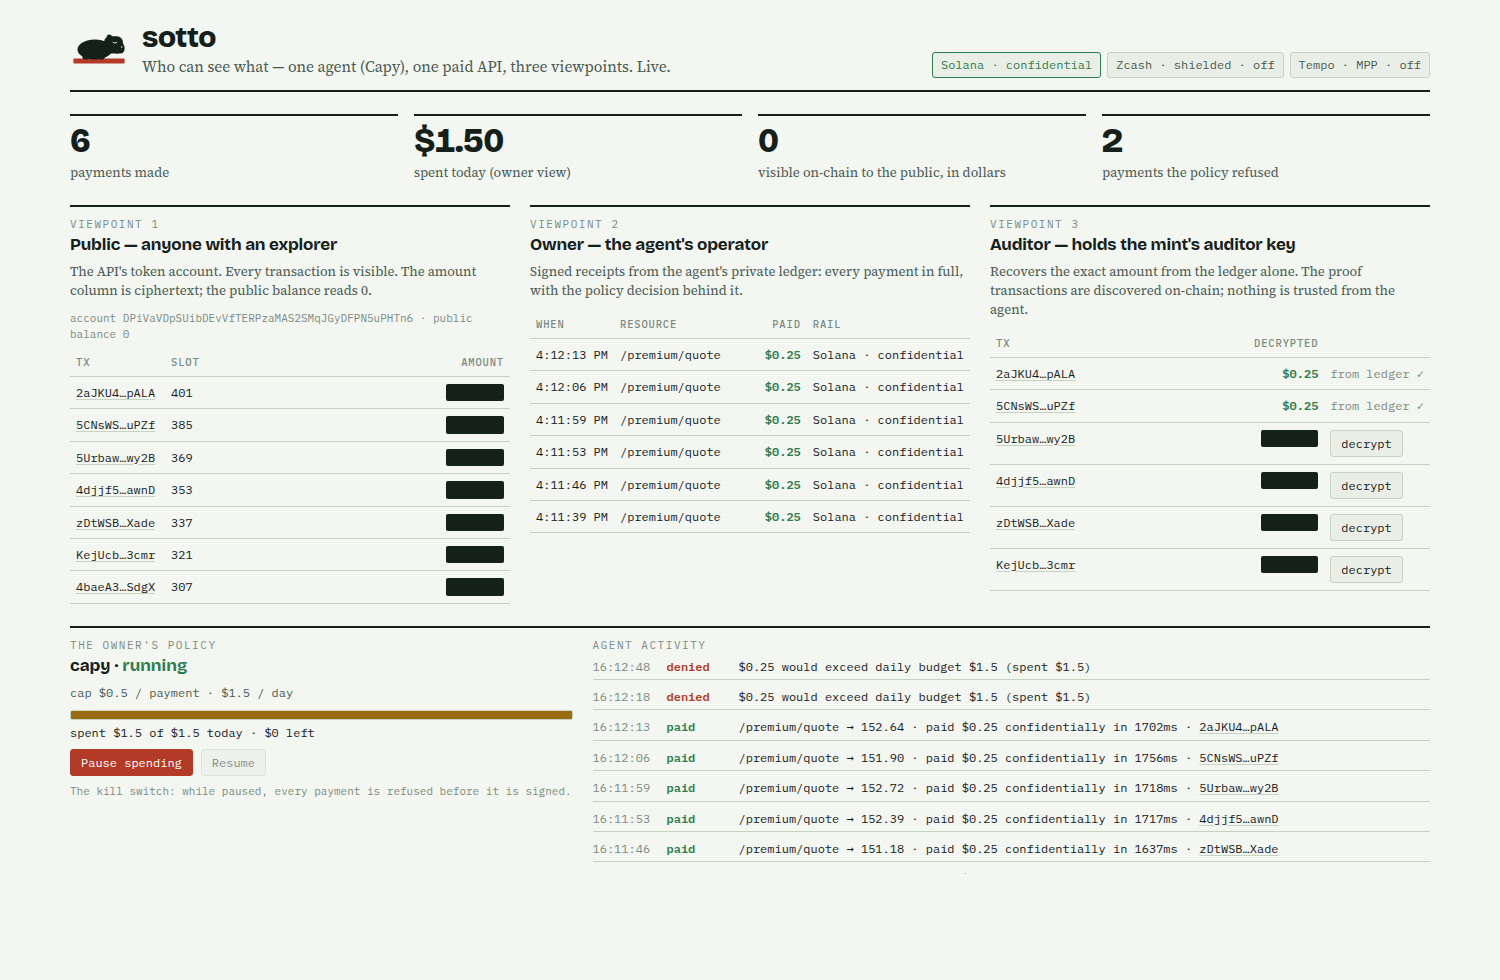
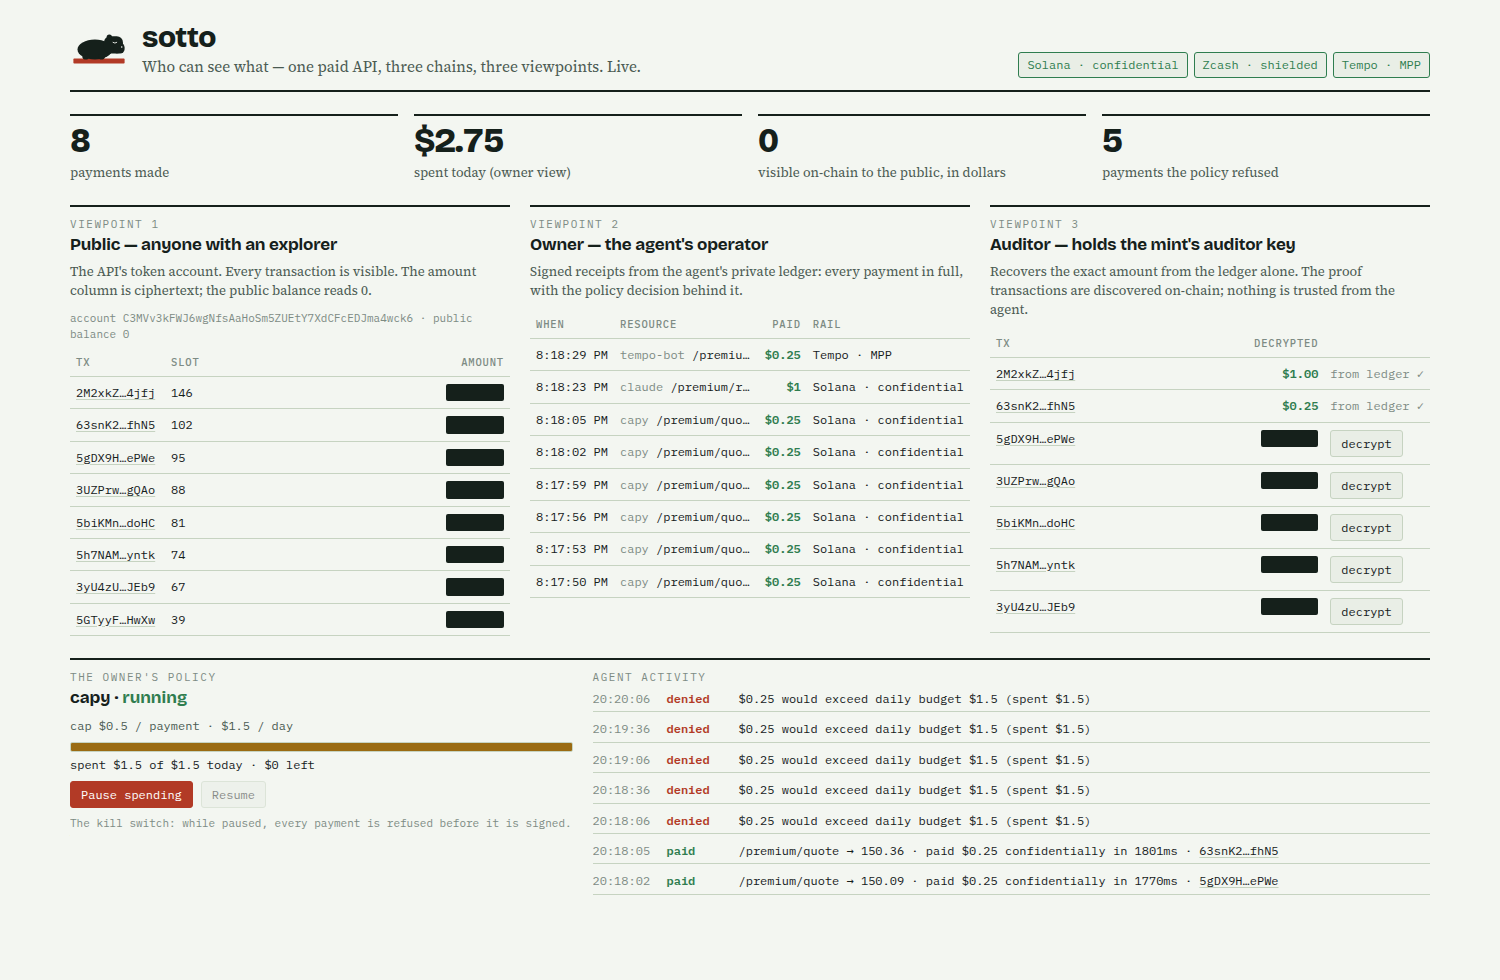
README: screenshots back, repository map and run instructions at the bottom
Slide 2 follows the solution; a fresh dashboard screenshot (all three rails on, Capy, Claude Code and a Tempo
agent in one owner ledger, two auditor decrypts) closes 'How it works'. The repository map and the run
instructions, demo and SDK usage, come last. The sponsor table says 'Verified on'.

The dashboard subtitle no longer says 'one agent': the owner view merges every agent's ledger. The submission
draft keeps the answers pasted into the Colosseum form.

Claude-Session: https://claude.ai/code/session_01N7Vfg7xokAihye472Cfcwa

diff --git a/packages/demo/public/index.html b/packages/demo/public/index.html
@@ -63,7 +63,7 @@
 <body>
 <div class="wrap">
   <header>
-    <div style="display:flex;align-items:center;gap:14px"><span style="color:var(--ink)"><svg class="capy" viewBox="0 0 140 92" width="58" height="38" aria-hidden="true"><rect x="8" y="74" width="124" height="12" rx="2" fill="var(--accent)"/><ellipse cx="60" cy="52" rx="42" ry="24" fill="currentColor"/><rect x="82" y="20" width="46" height="42" rx="15" fill="currentColor"/><rect x="104" y="36" width="28" height="26" rx="11" fill="currentColor"/><circle cx="95" cy="22" r="6.5" fill="currentColor"/><path d="M104 35 q4.5 3.5 9 0" stroke="var(--paper)" stroke-width="2.2" fill="none" stroke-linecap="round"/><circle cx="125" cy="46" r="1.9" fill="var(--paper)"/><rect x="30" y="64" width="16" height="12" rx="5" fill="currentColor"/><rect x="68" y="64" width="16" height="12" rx="5" fill="currentColor"/></svg></span><div><div class="brand">sotto</div><div class="tag">Who can see what — one agent (Capy), one paid API, three viewpoints. Live.</div></div></div>
+    <div style="display:flex;align-items:center;gap:14px"><span style="color:var(--ink)"><svg class="capy" viewBox="0 0 140 92" width="58" height="38" aria-hidden="true"><rect x="8" y="74" width="124" height="12" rx="2" fill="var(--accent)"/><ellipse cx="60" cy="52" rx="42" ry="24" fill="currentColor"/><rect x="82" y="20" width="46" height="42" rx="15" fill="currentColor"/><rect x="104" y="36" width="28" height="26" rx="11" fill="currentColor"/><circle cx="95" cy="22" r="6.5" fill="currentColor"/><path d="M104 35 q4.5 3.5 9 0" stroke="var(--paper)" stroke-width="2.2" fill="none" stroke-linecap="round"/><circle cx="125" cy="46" r="1.9" fill="var(--paper)"/><rect x="30" y="64" width="16" height="12" rx="5" fill="currentColor"/><rect x="68" y="64" width="16" height="12" rx="5" fill="currentColor"/></svg></span><div><div class="brand">sotto</div><div class="tag">Who can see what — one paid API, three chains, three viewpoints. Live.</div></div></div>
     <div class="chips" id="rails"><span class="chip">connecting…</span></div>
   </header>
 

diff --git a/README.md b/README.md
@@ -28,6 +28,8 @@ nothing bounds what an agent spends, so one bug or one bad prompt can drain the 
 Before anything is signed, the owner's policy decides: a per-payment cap, hourly, daily and monthly budgets, allowed
 and blocked hosts, an expiry date, and a kill switch. Confidential, not anonymous.
 
+<p align="center"><img src="docs/img/slide-2.png" width="880" alt="Slide 2: sotto, paid quietly, proven loudly: the public, the owner and an auditor see the same payment differently"></p>
+
 ## How it works
 
 1. **Ask.** An agent requests a paid resource through the SDK, the MCP server, or the `sotto` CLI.
@@ -50,9 +52,13 @@ The pieces: `packages/sdk` holds the policy engine, receipts, rails, x402 scheme
 that teaches an agent to use it. `services/zcash-settler` is a Rust service that holds the Zcash wallet. `packages/demo`
 is a paid API, the owner and auditor dashboard, and Capy, the demo agent; `demo.sh` starts all of it.
 
+<p align="center"><img src="docs/img/dashboard.png" width="920" alt="The demo dashboard: Capy, Claude Code and a Tempo agent paying one API, as the public, the owner and an auditor see it"></p>
+<p align="center"><em>The demo dashboard, live: Capy, Claude Code and a Tempo agent paying one API. The public sees redacted
+amounts, the owner sees every receipt, the auditor decrypts from the chain, and the policy refuses Capy once its budget is spent.</em></p>
+
 ## Sponsors at a glance
 
-| Sponsor | What sotto builds on | How agents pay | Live on |
+| Sponsor | What sotto builds on | How agents pay | Verified on |
 |---|---|---|---|
 | **Solana** | Token-2022 confidential transfers with an auditor key, ZK ElGamal proofs | x402 `confidential` · MPP `solana-confidential` | Local validator with mainnet's program set |
 | **Zcash** | Shielded payments, payment ID in the encrypted memo, viewing-key verification | x402 `shielded` · MPP `zcash-shielded` | Zcash testnet |
@@ -83,8 +89,8 @@ is a paid API, the owner and auditor dashboard, and Capy, the demo agent; `demo.
 - **The settler.** Rust, a fork of zcash-devtool on the librustzcash light-client crates, syncing through lightwalletd.
   sotto adds a `serve` HTTP API (`/address`, `/sync`, `/balance`, `/send`, `/received`); the payer runs one with a
   spending key.
-- **Live on testnet.** For example, shielded payment
[1 lines of base64/hex data omitted]
+- **Verified on testnet.** For example, shielded payment
[1 lines of base64/hex data omitted]
   block, about 75 seconds on average.
 - **Where.** `services/zcash-settler`, `packages/sdk/src/rails/zcash-shielded`, `packages/sdk/src/x402/zcash-shielded.ts`
   and `packages/sdk/src/mpp/zcash-shielded.ts`.
@@ -100,3 +106,95 @@ is a paid API, the owner and auditor dashboard, and Capy, the demo agent; `demo.
   [this $0.25 payment on Tempo's explorer](https://explore.testnet.tempo.xyz/tx/0x9f09061288efdc98126a299b71cc957f8cb709992756e10ba4f8d864eb4e63b9).
 - **Where.** The `tempo` rail in `packages/sdk/src/client.ts` and `packages/sdk/src/server.ts`; the demo turns it on
   with `TEMPO_RECIPIENT`.
+
+## Repository map
+
+```
+packages/sdk            @sotto/sdk: policy engine, signed receipts, rails, x402 schemes, MPP methods,
+                        SottoServer (payee) and SottoClient (agent)
+packages/mcp-server     sotto-mcp-server and the `sotto` CLI: fetch, budget, receipts, decisions, pause,
+                        as MCP tools and as shell commands
+skills/sotto            the Agent Skill (SKILL.md) that teaches an agent with a shell to pay through the CLI
+packages/demo           the paid API, Capy the demo agent, the three-viewpoint dashboard, demo.sh
+packages/demo/video     the script that records the demo video from the live system
+services/zcash-settler  Rust service (fork of zcash-devtool) holding the Zcash wallet behind an HTTP API
+docs/                   architecture, plan and decisions log, pitch, demo script, the demo video source
+slides.html             the 4-slide pitch (← → keys)
+```
+
+## Run it
+
+### The demo
+
+```bash
+pnpm install && pnpm -r build
+packages/demo/demo.sh          # local Solana (ZK ElGamal + Token-2022 + SPL Record), keys, confidential mint, API + dashboard, Capy
+```
+
+Open http://127.0.0.1:4020: watch the public column stay redacted while the owner column fills, click **decrypt**
+in the auditor column, then hit **Pause spending** and watch the next purchase get refused before it is signed.
+To accept Tempo too, set `TEMPO_RECIPIENT=0x…`; for Zcash, set `ZCASH_SETTLER_URL` and `ZCASH_ADDRESS` with a payee
+settler running (see `packages/demo/demo.sh`).
+
+Then let your own agent in, on the same chain and mint:
+
+```bash
+packages/demo/demo.sh mcp                                   # Claude Code / any MCP client: the config to paste
+eval "$(packages/demo/demo.sh env)" && sotto fetch http://127.0.0.1:4020/premium/quote    # the CLI + Agent Skill door
+```
+
+`demo.sh stop` stops everything; `demo.sh reset` wipes the chain and starts fresh. Needs Node 22, pnpm and the Solana CLI
+(`sh -c "$(curl -sSfL https://release.anza.xyz/stable/install)"`). The manual, step-by-step path is in
+[`packages/demo/README.md`](packages/demo/README.md).
+
+### In your own code
+
+**Payee: protect a route for both protocols**
+
+```ts
+import express from "express";
+import { SottoServer, ZcashSettlerClient } from "@sotto/sdk";
+
+const server = SottoServer.create({
+  secretKey: process.env.MPP_SECRET_KEY!,                       // ≥ 32 bytes
+  solana: { rpcUrl, payee: apiSigner, usdMint: { mint, decimals: 6 }, network: "solana:devnet" },
+  zcash:  { settler: new ZcashSettlerClient("http://127.0.0.1:8778"), address: "utest1…", network: "zcash:testnet", zecPriceUsd: 40 },
+  tempo:  { recipient: "0x…", testnet: true },
+});
+const app = express();
+app.use(server.protect({ "GET /premium": { price: "$0.25" } }));
+app.get("/premium", (_req, res) => res.json({ data: "…" }));
+```
+
+**Agent: a fetch that pays within policy and keeps receipts**
+
+```ts
+import { SottoClient } from "@sotto/sdk";
+
+const agent = await SottoClient.create({
+  agentId: "quote-bot",
+  policy: { agentId: "quote-bot", maxPerPayment: 500_000n /* $0.50 */, perDay: 10_000_000n /* $10 */, allowHosts: ["*.example.com"] },
+  solana: { client, signer, network: "solana:devnet", mints: [{ mint, decimals: 6 }] },
+});
+const res = await agent.fetch("https://api.example.com/premium");   // pays confidentially if asked; throws PolicyViolation if the policy says no
+```
+
+**Any MCP client**
+
+```json
+{ "mcpServers": { "sotto": { "command": "node", "args": ["packages/mcp-server/dist/index.js"],
+  "env": { "SOTTO_AGENT_ID": "claude", "SOTTO_POLICY": "{\"maxPerPaymentUsd\":0.5,\"perDayUsd\":10}",
+           "SOTTO_SOLANA_KEYFILE": "~/.config/solana/id.json", "SOTTO_SOLANA_MINTS": "[{\"mint\":\"…\",\"decimals\":6}]" } } } }
+```
+
+**Any agent with a shell: the Agent Skill**
+
+```bash
+cp -r skills/sotto ~/.claude/skills/            # or any Agent Skills-compatible runtime
+export PATH="$PWD/packages/mcp-server/bin:$PATH" SOTTO_AGENT_ID=claude SOTTO_POLICY='{"maxPerPaymentUsd":0.5,"perDayUsd":10}' \
+       SOTTO_SOLANA_KEYFILE=~/.config/solana/id.json SOTTO_SOLANA_MINTS='[{"mint":"…","decimals":6}]'
+sotto fetch https://api.example.com/premium     # pays if asked and allowed; exit code 3 means the policy said no
+```
+
+The MCP server and the CLI read the same `SOTTO_*` variables and share one state directory (`~/.sotto`), so budgets,
+receipts and the kill switch are the same whichever door the agent came through.

diff --git a/docs/submission.md b/docs/submission.md
@@ -71,3 +71,57 @@ agent payments as a stated target.
 ## Weekly updates (optional, recommended)
 1-minute videos: what shipped, what's next. Week 1: rails proven. Week 2: devnet deployments + polish.
 Week 3: on-chain policy contract / pilots. Week 4: videos, submission.
+
+## Portal form answers (October 4 version of the form)
+
+Pasted into the Colosseum form; each fits its character limit.
+
+### What are you building, and who is it for?
+*966/1000 characters*
+
+sotto is a payment rail for AI agents that keeps their purchases private while keeping their spending bounded and provable. Today an agent that pays with x402 leaves a public record of every purchase: what it bought, from whom, how often and for how much. Anyone can read a trading agent's strategy off the chain, and nothing stops one bad prompt from draining its wallet.
+
+With sotto, payments are confidential by default: amounts are encrypted on Solana and fully shielded on Zcash. Before anything is signed, an owner-set policy decides: per-payment cap, budgets, allowed hosts, expiry, kill switch. The owner gets a signed receipt for every payment, and an auditor with a viewing key can verify exact amounts from the chain alone. Confidential, not anonymous.
+
+It's for teams whose agents buy data, APIs and tools on their own, such as trading, research and procurement agents, and for API sellers who want to get paid by agents without exposing their customers.
+
+### Why did you decide to build this, and why build it now?
+*894/1000 characters*
+
+Agents are starting to pay for their own data, APIs and tools, and the standards they use, x402 and Tempo's Machine Payments Protocol, settle on public ledgers. That's fine for a demo but not for a business. No company wants competitors reading its agents' purchases, and no owner wants an agent with an unbounded wallet. Privacy and spending limits are what turn agent payments from a novelty into something a finance team will approve.
+
+Why now: the pieces finally exist. Solana's ZK ElGamal proof program, which powers confidential transfers, came back on mainnet in June 2026, and almost nobody uses it yet. Zcash's shielded payments and viewing keys are mature. x402 and MPP are becoming how agents pay, and MCP servers and Agent Skills let any agent adopt a new payment method with one line of config. sotto plugs into those standards instead of inventing new ones, so it grows with them.
+
+### What technologies are you using or integrating with?
+*770/1000 characters*
+
+Solana: Token-2022 confidential transfers with an auditor key, the ZK ElGamal proof program, SPL Record, Memo; @solana/kit, @solana-program/token-2022, @solana/zk-sdk.
+Zcash: shielded payments with the payment ID in the encrypted memo; a Rust settler on librustzcash (fork of zcash-devtool), lightwalletd.
+Tempo: TIP-20 stablecoin payments over the Machine Payments Protocol (mppx), Moderato testnet.
+Protocols: x402 v2 (@x402/core, payment-identifier extension), MPP, Model Context Protocol (@modelcontextprotocol/sdk), Agent Skills.
+Stack: TypeScript, Node 22, Express, Rust (tokio, axum), pnpm, Vitest.
+Developer tools: solana-test-validator, Playwright (scripted demo recording), ffmpeg, GitHub.
+AI tools: Claude Code (main coding tool), ElevenLabs (demo narration).
+
+### How does your product use these chains?
+*417/500 characters*
+
+Solana: agents pay with Token-2022 confidential transfers. Amounts are encrypted; the API and an auditor decrypt them from the chain with their own keys. Zcash: fully shielded payments; the payment ID rides in the encrypted memo and the API verifies with a viewing key. Tempo: stablecoin payments over Tempo's Machine Payments Protocol, gated by the same spend policy and receipted. One 402 response offers all three.
+
+### Did anyone not listed on the team do meaningful work?
+*394/600 characters*
+
+No other people worked on it; I'm a solo founder. I built it with Claude Code as my AI coding tool (listed under technologies). Third-party code is used as unmodified open-source dependencies, except the Zcash settler, a fork of zcash-devtool (MIT/Apache-2.0) with a new HTTP serve command, credited in services/zcash-settler/VENDORED.md. All project code was written during the contest window.
+
+### Anything else judges should know?
+*429/500 characters*
+
+Everything in the demo video is live, recorded from the running system: Zcash and Tempo payments on their testnets, and Solana confidential transfers on a local validator running mainnet's program set (devnet faucets were rate-limited). The spend policy is enforced by the agent's SDK before anything is signed; on-chain enforcement is next. Demo: youtube.com/watch?v=4qkV0ExM-Z8 · Code: github.com/chinesepowered/hack-worldsfair
+
+### The other fields
+- **Chains:** select **Solana, Tempo and Zcash**. Zcash is not ticked yet.
+- **Category:** FinTech fits. If there is a Payments or Infrastructure option, either is a closer match.
+- **Mobile-focused dApp:** No.
+- **Based in:** United States.
+- **Telegram:** your own handle.
+- **Before submitting:** make the GitHub repo public. Both the README and the demo point to it.
